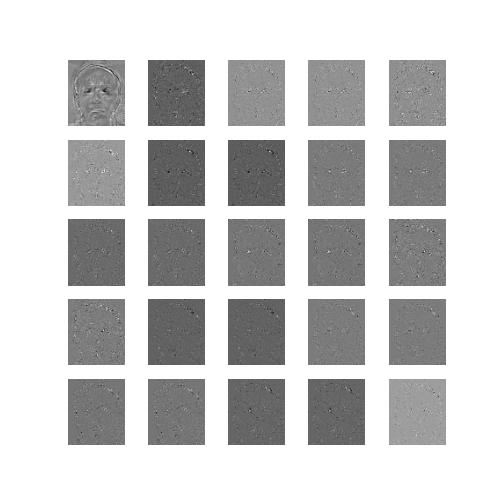
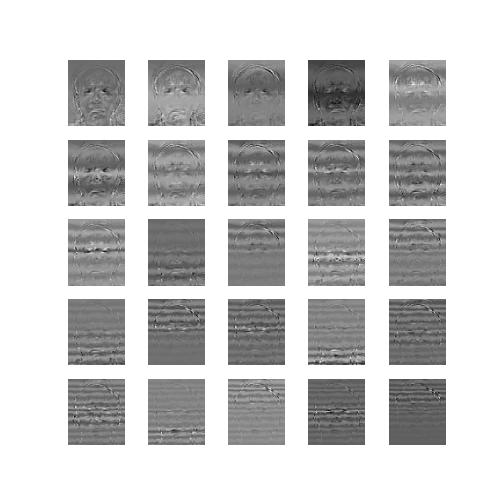
use eigh for LDA eigen decomposition

diff --git a/hw7/ML_hw7_PCA_LDA.py b/hw7/ML_hw7_PCA_LDA.py
@@ -46,22 +46,9 @@ def resize_img(data):
 
     return img_compress
 
-# def standardize(data):
-#     mean = np.mean(data, axis = 0)
-#     std = np.std(data, axis = 0)
-
-#     return (data - mean) / std
-
 def PCA(data):
     covariance = np.cov(data.T)
     eigenvalue, eigenvector = np.linalg.eigh(covariance)
-    
-    # mean = np.mean(data, axis = 0)
-    # data_center = data - mean
-
-    # covariance = data_center @ data_center.T / data_center.shape[0]
-    # eigenvalue, eigenvector = np.linalg.eigh(covariance)
-    # eigenvector = data_center.T @ eigenvector
     
     index = np.argsort(-eigenvalue)
     eigenvector = eigenvector[:, index]
@@ -98,20 +85,15 @@ def LDA(data, label):
         within_diff = scatter - mj
         S_w += within_diff.T @ within_diff
         between_diff = mj - m
-        S_b += len(id) * between_diff.T @ between_diff
-
-        # xi = data[subject * 9 : (subject + 1) * 9]
-        # mj = np.mean(xi, axis=0)
-        # S_w += (xi - mj).T @ (xi - mj)
-        # S_b += len(xi) * (mj - m).reshape(-1, 1) @ (mj - m).reshape(1, -1)
+        S_b += 9 * between_diff.T @ between_diff
 
     S_w_S_b = np.linalg.pinv(S_w) @ S_b
-    eigenvalue, eigenvector = np.linalg.eig(S_w_S_b)
+    eigenvalue, eigenvector = np.linalg.eigh(S_w_S_b)
 
     index = np.argsort(-eigenvalue)
     eigenvector = eigenvector[:, index]
 
-    W = eigenvector[:, :25].real
+    W = eigenvector[:, :25]
     for i in range(W.shape[1]):
         W[:, i] = W[:, i] / np.linalg.norm(W[:, i])
 
@@ -159,10 +141,10 @@ def kernelLDA(data, kernel_type):
     S_b = kernel @ Z @ kernel
     
     S_w_S_b = np.linalg.pinv(S_w) @ S_b
-    eigenvalue, eigenvector = np.linalg.eig(S_w_S_b)
+    eigenvalue, eigenvector = np.linalg.eigh(S_w_S_b)
     
     index = np.argsort(-eigenvalue)
-    eigenvector = eigenvector[:, index].real
+    eigenvector = eigenvector[:, index]
 
     W = eigenvector[:, :25]
     for i in range(W.shape[1]):
